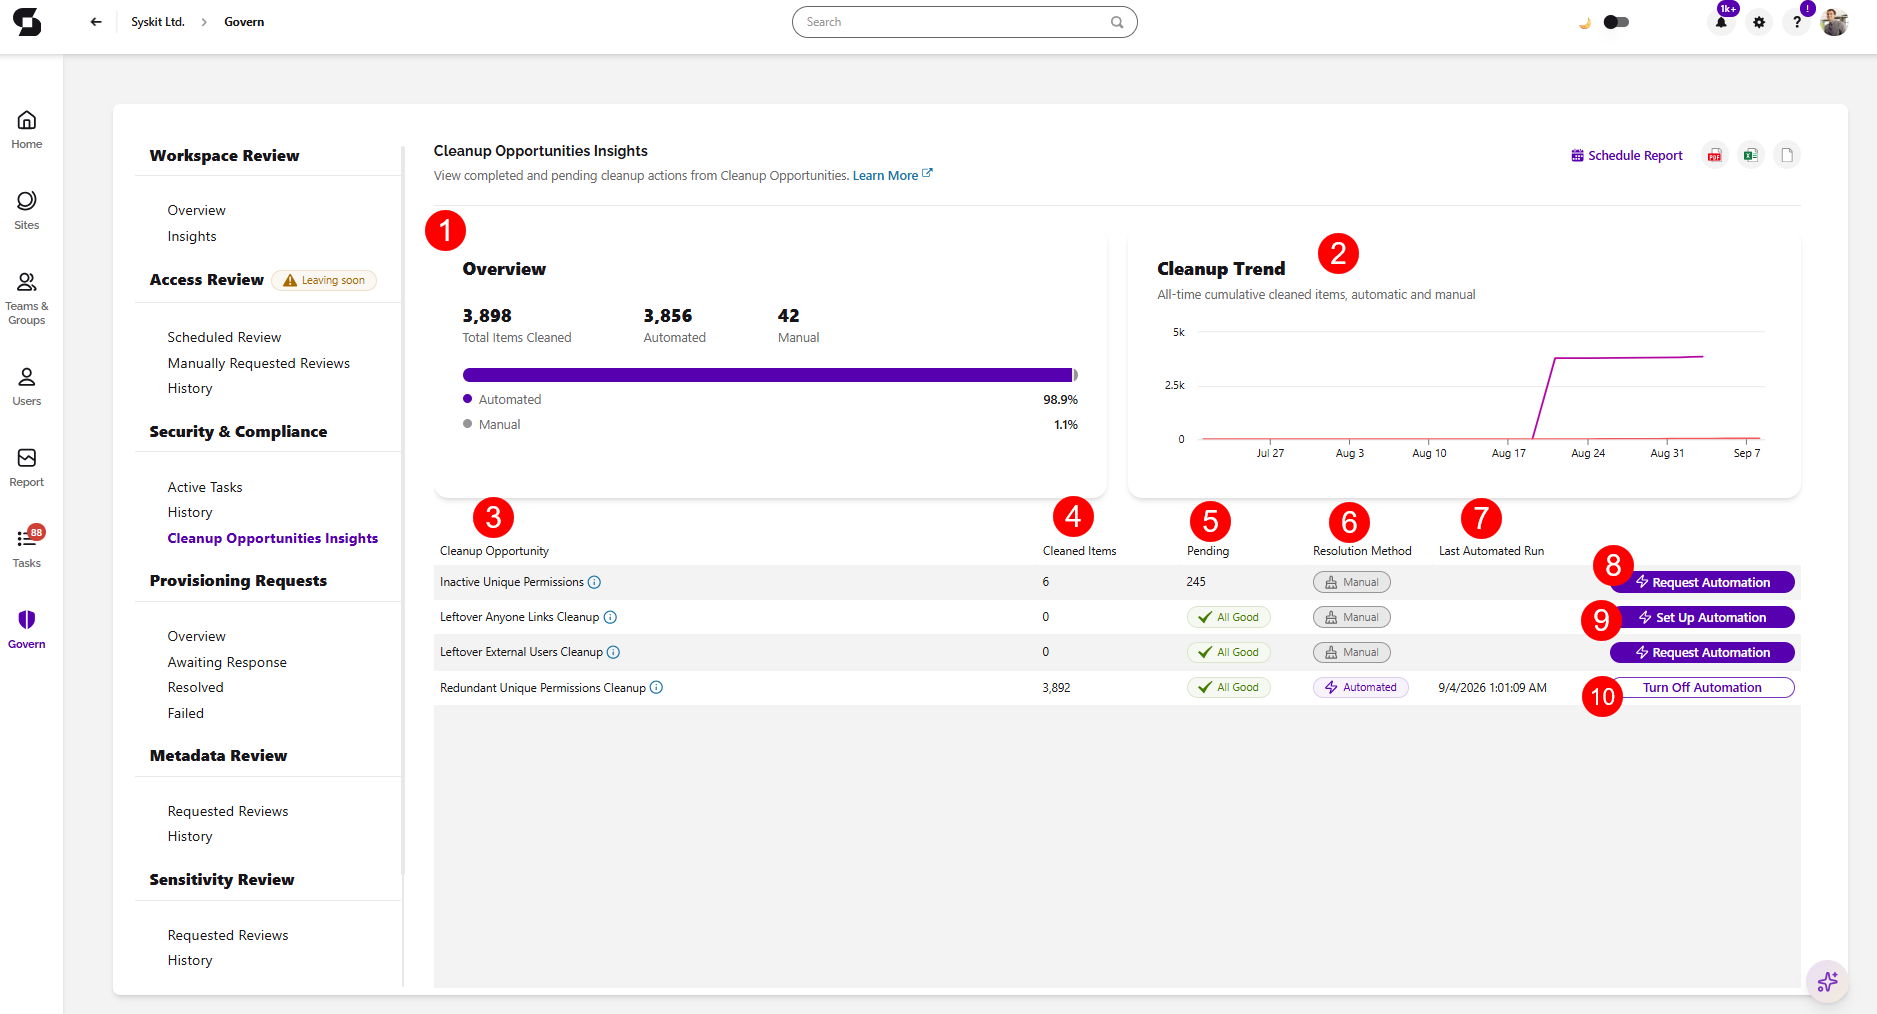
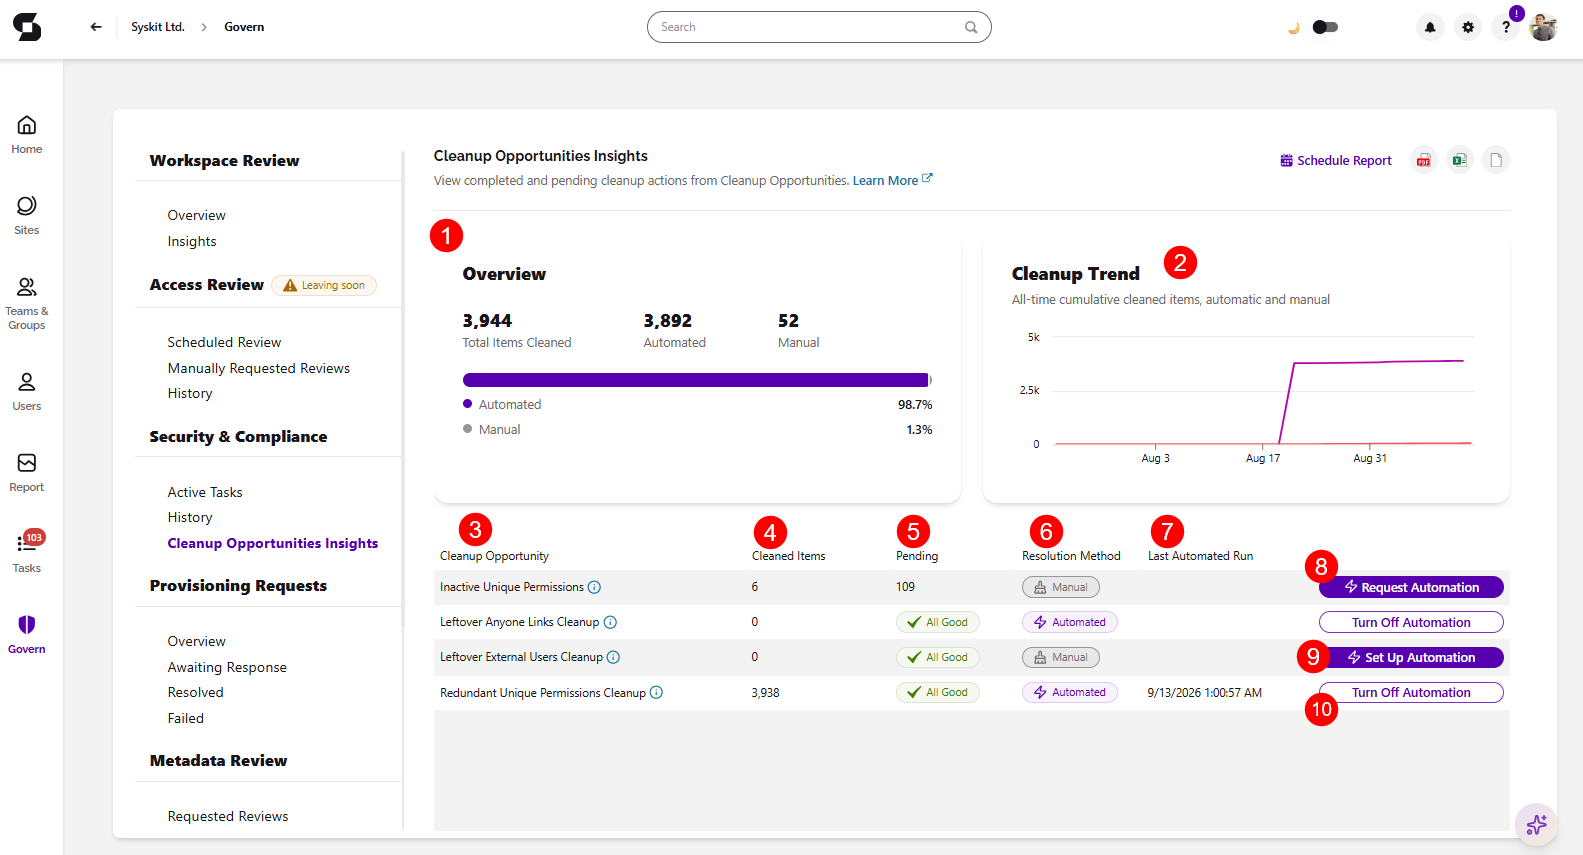
leftover external users automation

diff --git a/docs/microsoft365-inventory/cleanup-opportunities.md b/docs/microsoft365-inventory/cleanup-opportunities.md
@@ -95,16 +95,30 @@ After selecting Set Up Automation, the **information dialog** opens, providing m
 
 **When external sharing settings become more restrictive, SharePoint blocks existing guest users, but doesn't remove them.** These users had valid access when it was granted, but once your settings became more restrictive, **they no longer comply with your external sharing settings and should be removed.** Removing these external accounts eliminates outdated access and keeps your guest users list aligned with your current sharing policies.
 
-On the dashboard tile, you'll see the number of leftover external users ready to be cleaned up, **click Resolve Manually** to start.
+On the dashboard tile, you'll see the number of leftover external users ready to be cleaned up, **click Set up Automation** to start.
 
-After selecting Resolve Manually, the **information dialog** opens, providing more details on Leftover External Users and leaves you with two options:
+After selecting Set Up Automation, the **information dialog** opens, providing more details on Leftover External Users and leaves you with two options:
 
-* **Clicking the Request Automation** button lets you send us a request for this feature to be automated, which helps us prioritize the improvements you're requesting
-* **Clicking Resolve Manually** opens the [**Externally Shared Content** report](../reporting/access-reports.md#unique-permissions-report)
+* **Turning on the Automated cleanup toggle (1)** lets Syskit Point remove leftover external users for you automatically
+  * The Automated Cleanup toggle is turned off by default
+  * When it's turned on, leftover external users are removed once a day
+  * Every access the automation removes is stored in the action history log
+
+* **Clicking Resolve Manually (2)** opens the [**Externally Shared Content** report](../reporting/access-reports.md#unique-permissions-report)
   * After clicking the report, you'll see the workspaces that include leftover external users, and selecting them lets you generate the report
-  * Once the report is generated, you'll see the **recommendation to Remove Leftover External User Access (1)**, where applicable
-  * Selecting that user lets you **complete the Remove Access (2)** actions
+  * Once the report is generated, you'll see the **recommendation to Remove Leftover External User Access (3)**, where applicable
+  * Selecting that user lets you **complete the Remove Access (4)** action
 
+* **Clicking View Cleanup Insights (3)** opens the [**Cleanup Opportunities Insights** report](#cleanup-opportunities-insights) on the Security & Compliance section of the Govern screen
+
+
+:::info
+
+**Please note:** Automated cleanup skips external users who have access through Microsoft 365 Groups, Teams, or security groups. Removing them could affect access beyond one site.
+
+:::
+
+![Cleanup Opportunities tile - Leftover External Users](../../static/img/cleanup-opportunities-tile-leftover-users-automation.png)
 
 ![Cleanup Opportunities tile - Leftover External Users](../../static/img/cleanup-opportunities-tile-leftover-users.png)
 
